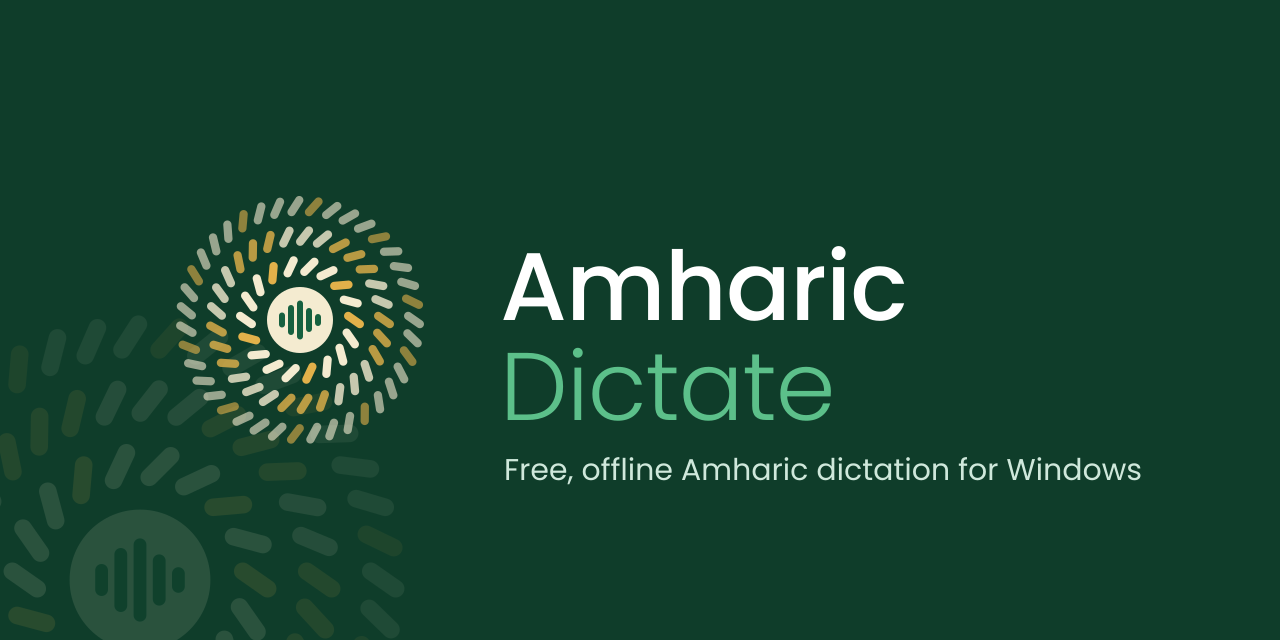
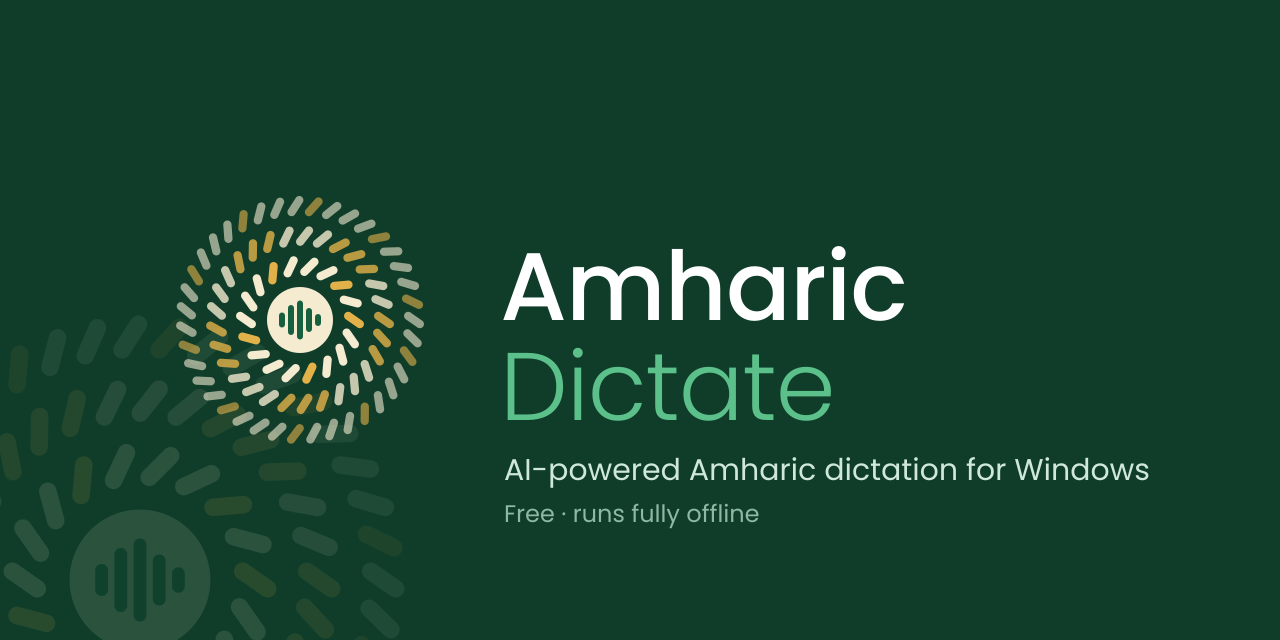
Say clearly that it uses an AI speech model (README, guide, About, start-up window, installer, licence, social preview), and that AI can mishear
Claude-Session: https://claude.ai/code/session_01MHqvrqbzGexgFLvyXxESMw

Changed region(s): [[0.375, 0.7188, 0.9062, 0.75], [0.375, 0.7812, 0.5938, 0.8125]]

diff --git a/assets/guide.html b/assets/guide.html
@@ -16,12 +16,13 @@ nav ul{margin:.3em 0;padding-left:1.2em} a{color:#0b62c4} hr{border:0;border-top
 <div style="display:flex;align-items:center;gap:16px"><svg xmlns="http://www.w3.org/2000/svg" width="72" height="72" viewBox="0 0 200 200"><defs><linearGradient id="g" x1="0" y1="0" x2="0" y2="1"><stop offset="0" stop-color="#2FA36A"/><stop offset="1" stop-color="#16603F"/></linearGradient></defs><rect width="72" height="72" rx="46" fill="url(#g)"/><rect x="133.25" y="92.50" width="5.5" height="15" rx="2.75" fill="#E2B14A" transform="rotate(125.0 136.00 100.00)" opacity="1.00"/><rect x="131.08" y="104.81" width="5.5" height="15" rx="2.75" fill="#F4EBD0" transform="rotate(145.0 133.83 112.31)" opacity="1.00"/><rect x="124.83" y="115.64" width="5.5" height="15" rx="2.75" fill="#F4EBD0" transform="rotate(165.0 127.58 123.14)" opacity="1.00"/><rect x="115.25" y="123.68" width="5.5" height="15" rx="2.75" fill="#F4EBD0" transform="rotate(185.0 118.00 131.18)" opacity="1.00"/><rect x="103.50" y="127.95" width="5.5" height="15" rx="2.75" fill="#E2B14A" transform="rotate(205.0 106.25 135.45)" opacity="1.00"/><rect x="91.00" y="127.95" width="5.5" height="15" rx="2.75" fill="#F4EBD0" transform="rotate(225.0 93.75 135.45)" opacity="1.00"/><rect x="79.25" y="123.68" width="5.5" height="15" rx="2.75" fill="#F4EBD0" transform="rotate(245.0 82.00 131.18)" opacity="1.00"/><rect x="69.67" y="115.64" width="5.5" height="15" rx="2.75" fill="#F4EBD0" transform="rotate(265.0 72.42 123.14)" opacity="1.00"/><rect x="63.42" y="104.81" width="5.5" height="15" rx="2.75" fill="#E2B14A" transform="rotate(285.0 66.17 112.31)" opacity="1.00"/><rect x="61.25" y="92.50" width="5.5" height="15" rx="2.75" fill="#F4EBD0" transform="rotate(305.0 64.00 100.00)" opacity="1.00"/><rect x="63.42" y="80.19" width="5.5" height="15" rx="2.75" fill="#F4EBD0" transform="rotate(325.0 66.17 87.69)" opacity="1.00"/><rect x="69.67" y="69.36" width="5.5" height="15" rx="2.75" fill="#F4EBD0" transform="rotate(345.0 72.42 76.86)" opacity="1.00"/><rect x="79.25" y="61.32" width="5.5" height="15" rx="2.75" fill="#E2B14A" transform="rotate(365.0 82.00 68.82)" opacity="1.00"/><rect x="91.00" y="57.05" width="5.5" height="15" rx="2.75" fill="#F4EBD0" transform="rotate(385.0 93.75 64.55)" opacity="1.00"/><rect x="103.50" y="57.05" width="5.5" height="15" rx="2.75" fill="#F4EBD0" transform="rotate(405.0 106.25 64.55)" opacity="1.00"/><rect x="115.25" y="61.32" width="5.5" height="15" rx="2.75" fill="#F4EBD0" transform="rotate(425.0 118.00 68.82)" opacity="1.00"/><rect x="124.83" y="69.36" width="5.5" height="15" rx="2.75" fill="#E2B14A" transform="rotate(445.0 127.58 76.86)" opacity="1.00"/><rect x="131.08" y="80.19" width="5.5" height="15" rx="2.75" fill="#F4EBD0" transform="rotate(465.0 133.83 87.69)" opacity="1.00"/><rect x="153.25" y="92.50" width="5.5" height="15" rx="2.75" fill="#E2B14A" transform="rotate(125.0 156.00 100.00)" opacity="0.80"/><rect x="151.94" y="104.54" width="5.5" height="15" rx="2.75" fill="#E2B14A" transform="rotate(137.4 154.69 112.04)" opacity="0.80"/><rect x="148.07" y="116.01" width="5.5" height="15" rx="2.75" fill="#E2B14A" transform="rotate(149.8 150.82 123.51)" opacity="0.80"/><rect x="141.83" y="126.39" width="5.5" height="15" rx="2.75" fill="#F4EBD0" transform="rotate(162.2 144.58 133.89)" opacity="0.80"/><rect x="133.50" y="135.18" width="5.5" height="15" rx="2.75" fill="#F4EBD0" transform="rotate(174.7 136.25 142.68)" opacity="0.80"/><rect x="123.48" y="141.98" width="5.5" height="15" rx="2.75" fill="#F4EBD0" transform="rotate(187.1 126.23 149.48)" opacity="0.80"/><rect x="112.23" y="146.46" width="5.5" height="15" rx="2.75" fill="#E2B14A" transform="rotate(199.5 114.98 153.96)" opacity="0.80"/><rect x="100.28" y="148.42" width="5.5" height="15" rx="2.75" fill="#E2B14A" transform="rotate(211.9 103.03 155.92)" opacity="0.80"/><rect x="88.19" y="147.76" width="5.5" height="15" rx="2.75" fill="#E2B14A" transform="rotate(224.3 90.94 155.26)" opacity="0.80"/><rect x="76.52" y="144.52" width="5.5" height="15" rx="2.75" fill="#F4EBD0" transform="rotate(236.7 79.27 152.02)" opacity="0.80"/><rect x="65.82" y="138.85" width="5.5" height="15" rx="2.75" fill="#F4EBD0" transform="rotate(249.1 68.57 146.35)" opacity="0.80"/><rect x="56.59" y="131.01" width="5.5" height="15" rx="2.75" fill="#F4EBD0" transform="rotate(261.6 59.34 138.51)" opacity="0.80"/><rect x="49.27" y="121.37" width="5.5" height="15" rx="2.75" fill="#E2B14A" transform="rotate(274.0 52.02 128.87)" opacity="0.80"/><rect x="44.18" y="110.38" width="5.5" height="15" rx="2.75" fill="#E2B14A" transform="rotate(286.4 46.93 117.88)" opacity="0.80"/><rect x="41.58" y="98.55" width="5.5" height="15" rx="2.75" fill="#E2B14A" transform="rotate(298.8 44.33 106.05)" opacity="0.80"/><rect x="41.58" y="86.45" width="5.5" height="15" rx="2.75" fill="#F4EBD0" transform="rotate(311.2 44.33 93.95)" opacity="0.80"/><rect x="44.18" y="74.62" width="5.5" height="15" rx="2.75" fill="#F4EBD0" transform="rotate(323.6 46.93 82.12)" opacity="0.80"/><rect x="49.27" y="63.63" width="5.5" height="15" rx="2.75" fill="#F4EBD0" transform="rotate(336.0 52.02 71.13)" opacity="0.80"/><rect x="56.59" y="53.99" width="5.5" height="15" rx="2.75" fill="#E2B14A" transform="rotate(348.4 59.34 61.49)" opacity="0.80"/><rect x="65.82" y="46.15" width="5.5" height="15" rx="2.75" fill="#E2B14A" transform="rotate(360.9 68.57 53.65)" opacity="0.80"/><rect x="76.52" y="40.48" width="5.5" height="15" rx="2.75" fill="#E2B14A" transform="rotate(373.3 79.27 47.98)" opacity="0.80"/><rect x="88.19" y="37.24" width="5.5" height="15" rx="2.75" fill="#F4EBD0" transform="rotate(385.7 90.94 44.74)" opacity="0.80"/><rect x="100.28" y="36.58" width="5.5" height="15" rx="2.75" fill="#F4EBD0" transform="rotate(398.1 103.03 44.08)" opacity="0.80"/><rect x="112.23" y="38.54" width="5.5" height="15" rx="2.75" fill="#F4EBD0" transform="rotate(410.5 114.98 46.04)" opacity="0.80"/><rect x="123.48" y="43.02" width="5.5" height="15" rx="2.75" fill="#E2B14A" transform="rotate(422.9 126.23 50.52)" opacity="0.80"/><rect x="133.50" y="49.82" width="5.5" height="15" rx="2.75" fill="#E2B14A" transform="rotate(435.3 136.25 57.32)" opacity="0.80"/><rect x="141.83" y="58.61" width="5.5" height="15" rx="2.75" fill="#E2B14A" transform="rotate(447.8 144.58 66.11)" opacity="0.80"/><rect x="148.07" y="68.99" width="5.5" height="15" rx="2.75" fill="#F4EBD0" transform="rotate(460.2 150.82 76.49)" opacity="0.80"/><rect x="151.94" y="80.46" width="5.5" height="15" rx="2.75" fill="#F4EBD0" transform="rotate(472.6 154.69 87.96)" opacity="0.80"/><rect x="173.25" y="92.50" width="5.5" height="15" rx="2.75" fill="#F4EBD0" transform="rotate(125.0 176.00 100.00)" opacity="0.60"/><rect x="172.27" y="104.69" width="5.5" height="15" rx="2.75" fill="#F4EBD0" transform="rotate(134.2 175.02 112.19)" opacity="0.60"/><rect x="169.34" y="116.57" width="5.5" height="15" rx="2.75" fill="#E2B14A" transform="rotate(143.5 172.09 124.07)" opacity="0.60"/><rect x="164.54" y="127.82" width="5.5" height="15" rx="2.75" fill="#F4EBD0" transform="rotate(152.7 167.29 135.32)" opacity="0.60"/><rect x="158.01" y="138.16" width="5.5" height="15" rx="2.75" fill="#F4EBD0" transform="rotate(161.9 160.76 145.66)" opacity="0.60"/><rect x="149.90" y="147.31" width="5.5" height="15" rx="2.75" fill="#F4EBD0" transform="rotate(171.2 152.65 154.81)" opacity="0.60"/><rect x="140.42" y="155.05" width="5.5" height="15" rx="2.75" fill="#E2B14A" transform="rotate(180.4 143.17 162.55)" opacity="0.60"/><rect x="129.83" y="161.16" width="5.5" height="15" rx="2.75" fill="#F4EBD0" transform="rotate(189.6 132.58 168.66)" opacity="0.60"/><rect x="118.39" y="165.50" width="5.5" height="15" rx="2.75" fill="#F4EBD0" transform="rotate(198.8 121.14 173.00)" opacity="0.60"/><rect x="106.41" y="167.95" width="5.5" height="15" rx="2.75" fill="#F4EBD0" transform="rotate(208.1 109.16 175.45)" opacity="0.60"/><rect x="94.19" y="168.44" width="5.5" height="15" rx="2.75" fill="#E2B14A" transform="rotate(217.3 96.94 175.94)" opacity="0.60"/><rect x="82.05" y="166.96" width="5.5" height="15" rx="2.75" fill="#F4EBD0" transform="rotate(226.5 84.80 174.46)" opacity="0.60"/><rect x="70.30" y="163.56" width="5.5" height="15" rx="2.75" fill="#F4EBD0" transform="rotate(235.8 73.05 171.06)" opacity="0.60"/><rect x="59.25" y="158.32" width="5.5" height="15" rx="2.75" fill="#F4EBD0" transform="rotate(245.0 62.00 165.82)" opacity="0.60"/><rect x="49.18" y="151.37" width="5.5" height="15" rx="2.75" fill="#E2B14A" transform="rotate(254.2 51.93 158.87)" opacity="0.60"/><rect x="40.36" y="142.90" width="5.5" height="15" rx="2.75" fill="#F4EBD0" transform="rotate(263.5 43.11 150.40)" opacity="0.60"/><rect x="33.02" y="133.12" width="5.5" height="15" rx="2.75" fill="#F4EBD0" transform="rotate(272.7 35.77 140.62)" opacity="0.60"/><rect x="27.33" y="122.29" width="5.5" height="15" rx="2.75" fill="#F4EBD0" transform="rotate(281.9 30.08 129.79)" opacity="0.60"/><rect x="23.46" y="110.69" width="5.5" height="15" rx="2.75" fill="#E2B14A" transform="rotate(291.2 26.21 118.19)" opacity="0.60"/><rect x="21.50" y="98.62" width="5.5" height="15" rx="2.75" fill="#F4EBD0" transform="rotate(300.4 24.25 106.12)" opacity="0.60"/><rect x="21.50" y="86.38" width="5.5" height="15" rx="2.75" fill="#F4EBD0" transform="rotate(309.6 24.25 93.88)" opacity="0.60"/><rect x="23.46" y="74.31" width="5.5" height="15" rx="2.75" fill="#F4EBD0" transform="rotate(318.8 26.21 81.81)" opacity="0.60"/><rect x="27.33" y="62.71" width="5.5" height="15" rx="2.75" fill="#E2B14A" transform="rotate(328.1 30.08 70.21)" opacity="0.60"/><rect x="33.02" y="51.88" width="5.5" height="15" rx="2.75" fill="#F4EBD0" transform="rotate(337.3 35.77 59.38)" opacity="0.60"/><rect x="40.36" y="42.10" width="5.5" height="15" rx="2.75" fill="#F4EBD0" transform="rotate(346.5 43.11 49.60)" opacity="0.60"/><rect x="49.18" y="33.63" width="5.5" height="15" rx="2.75" fill="#F4EBD0" transform="rotate(355.8 51.93 41.13)" opacity="0.60"/><rect x="59.25" y="26.68" width="5.5" height="15" rx="2.75" fill="#E2B14A" transform="rotate(365.0 62.00 34.18)" opacity="0.60"/><rect x="70.30" y="21.44" width="5.5" height="15" rx="2.75" fill="#F4EBD0" transform="rotate(374.2 73.05 28.94)" opacity="0.60"/><rect x="82.05" y="18.04" width="5.5" height="15" rx="2.75" fill="#F4EBD0" transform="rotate(383.5 84.80 25.54)" opacity="0.60"/><rect x="94.19" y="16.56" width="5.5" height="15" rx="2.75" fill="#F4EBD0" transform="rotate(392.7 96.94 24.06)" opacity="0.60"/><rect x="106.41" y="17.05" width="5.5" height="15" rx="2.75" fill="#E2B14A" transform="rotate(401.9 109.16 24.55)" opacity="0.60"/><rect x="118.39" y="19.50" width="5.5" height="15" rx="2.75" fill="#F4EBD0" transform="rotate(411.2 121.14 27.00)" opacity="0.60"/><rect x="129.83" y="23.84" width="5.5" height="15" rx="2.75" fill="#F4EBD0" transform="rotate(420.4 132.58 31.34)" opacity="0.60"/><rect x="140.42" y="29.95" width="5.5" height="15" rx="2.75" fill="#F4EBD0" transform="rotate(429.6 143.17 37.45)" opacity="0.60"/><rect x="149.90" y="37.69" width="5.5" height="15" rx="2.75" fill="#E2B14A" transform="rotate(438.8 152.65 45.19)" opacity="0.60"/><rect x="158.01" y="46.84" width="5.5" height="15" rx="2.75" fill="#F4EBD0" transform="rotate(448.1 160.76 54.34)" opacity="0.60"/><rect x="164.54" y="57.18" width="5.5" height="15" rx="2.75" fill="#F4EBD0" transform="rotate(457.3 167.29 64.68)" opacity="0.60"/><rect x="169.34" y="68.43" width="5.5" height="15" rx="2.75" fill="#F4EBD0" transform="rotate(466.5 172.09 75.93)" opacity="0.60"/><rect x="172.27" y="80.31" width="5.5" height="15" rx="2.75" fill="#E2B14A" transform="rotate(475.8 175.02 87.81)" opacity="0.60"/><circle cx="100" cy="100" r="22" fill="#F4EBD0"/><rect x="86.00" y="95.00" width="4.00" height="10.00" rx="2.00" fill="#16603F"/><rect x="92.00" y="90.00" width="4.00" height="20.00" rx="2.00" fill="#16603F"/><rect x="98.00" y="87.00" width="4.00" height="26.00" rx="2.00" fill="#16603F"/><rect x="104.00" y="92.00" width="4.00" height="16.00" rx="2.00" fill="#16603F"/><rect x="110.00" y="96.00" width="4.00" height="8.00" rx="2.00" fill="#16603F"/></svg><div><h1 id="amharic-dictate-how-to-use">Amharic Dictate — how to use</h1></div></div>
 <nav><b>Contents</b><ul><li><a href="#dictate">Dictate</a></li><li><a href="#voice-commands">Voice commands</a></li><li><a href="#fix-mistakes">Fix mistakes</a></li><li><a href="#train-it-to-your-voice-add-your-own-words-learn-from-corrections">Train it to your voice, add your own words, learn from corrections</a></li><li><a href="#settings">Settings</a></li><li><a href="#tips-and-troubleshooting">Tips and troubleshooting</a></li><li><a href="#privacy">Privacy</a></li></ul></nav>
 
-<p><strong>Free, offline Amharic dictation for Windows.</strong> Speak Amharic and your words appear as text in
-Word, Outlook, Teams, your browser or any other program.</p>
+<p><strong>Free, offline Amharic dictation for Windows, powered by AI.</strong> Speak Amharic and your words appear
+as text in Word, Outlook, Teams, your browser or any other program.</p>
 <p>Free and open source.</p>
 <ul>
-<li><strong>Works offline:</strong> everything runs on your computer. Nothing you say is sent anywhere.</li>
-<li><strong>Built-in speech model:</strong> <em>Amharic Speech-to-Text EFA v1</em>, included in the installer.</li>
+<li><strong>AI speech recognition:</strong> the built-in AI model <em>Amharic Speech-to-Text EFA v1</em> turns your
+  speech into Amharic text. It's included in the installer.</li>
+<li><strong>Works offline:</strong> the AI runs on your computer. Nothing you say is sent anywhere.</li>
 <li><strong>Easy corrections:</strong> click any word to fix, remove or replace it.</li>
 <li><strong>Learns your voice:</strong> optional voice profile for better accuracy.</li>
 </ul>
@@ -284,7 +285,10 @@ want stored on the computer.</p>
 </table>
 <hr />
 <h2 id="privacy">Privacy</h2>
-<p>Everything you dictate is processed on your computer. Nothing is uploaded. Dictation history is
+<p>Everything you dictate is processed on your computer by the built-in AI model. Nothing is
+uploaded, and no online AI service is used.</p>
+<p>Like any AI, the speech model can mishear words, especially names, rare words and noisy audio.
+Check the text before you send or print it. Voice training and <strong>My words</strong> reduce mistakes. Dictation history is
 <strong>off</strong> by default. Voice-profile recordings and corrections stay in your Windows user folder
 (<code>%APPDATA%\AmharicDictate</code>) and can be deleted in <strong>Voice profiles</strong>.</p>
 <hr />

diff --git a/app.py b/app.py
@@ -339,7 +339,7 @@ class App:
                            for _ in range(22)]
         self._wave_t, self._wave_done = 0.0, False
         self._animate_wave()
-        tk.Label(box, text=f"Version {APP_VERSION}  ·  works offline", font=("Segoe UI", 8),
+        tk.Label(box, text=f"Version {APP_VERSION}  ·  AI speech recognition, fully offline", font=("Segoe UI", 8),
                  fg=T.DIM, bg=T.BG).pack(side="bottom", pady=10)
         w.update_idletasks()
 
@@ -478,7 +478,7 @@ class App:
     def _load_model(self):
         from engine import DictationEngine, Transcriber, ensure_model
         try:
-            self.tray.title = f"{APP_NAME} — loading the speech model…"     # no dictation box while loading
+            self.tray.title = f"{APP_NAME} — loading the AI speech model…"     # no dictation box while loading
             t0 = time.time()
             path = ensure_model(self.cfg["model"], lambda s: self.ui_q.put(("loading", s)))
             os.environ["HF_HUB_OFFLINE"] = "1"   # everything is local from here on
@@ -491,8 +491,8 @@ class App:
             if profile:
                 self.ui_q.put(("profile", f"Voice profile: {profile}" +
                                ("" if adapter else "  (no voice training yet)")))
-            self.ui_q.put(("loading", f"Loading the speech model and {profile}'s voice profile…" if adapter
-                           else "Loading the Amharic speech model…"))
+            self.ui_q.put(("loading", f"Loading the AI speech model and {profile}'s voice profile…" if adapter
+                           else "Loading the Amharic AI speech model…"))
             self._loaded_adapter = (str(adapter), os.path.getmtime(adapter)) if adapter else None
             transcriber = Transcriber(path, self.cfg["device"], self.cfg["quantize_cpu"],
                                       use_lm=self.cfg.get("lm_decoding", True),
@@ -675,16 +675,16 @@ class App:
             model_credit = ("Speech model: Ethio-ASR (Amharic) by badrex, CC BY-NC 4.0 — "
                             "free, non-commercial use only.")
         else:
-            model_credit = (f"Speech model: {model}, CC BY-SA 4.0 — based on facebook/w2v-bert-2.0 (MIT), "
+            model_credit = (f"AI speech model: {model}, CC BY-SA 4.0 — based on facebook/w2v-bert-2.0 (MIT), "
                             "trained on WAXAL (Google & partners) and FLEURS (Google) Amharic speech data.")
         messagebox.showinfo(
             f"About {APP_NAME}",
             f"{APP_NAME} {APP_VERSION}\n"
-            "Offline Amharic dictation for Windows.\n\n"
+            "Offline Amharic dictation for Windows, powered by AI speech recognition.\n\n"
             f"{model_credit}\n\n"
             "Amharic dictionary: Leipzig Corpora Collection (CC BY 4.0).\n"
             "Reading sentences: Leipzig Corpora Collection, Amharic Wikipedia (CC BY 4.0).\n\n"
-            "Everything you dictate stays on this computer.\n\n"
+            "The AI runs on this computer: everything you dictate stays here.\n\n"
             "Created by Endrias F. Abitte",
             parent=self.root)
 

diff --git a/README.md b/README.md
@@ -7,13 +7,14 @@
 
 # Amharic Dictate
 
-**Free, offline Amharic dictation for Windows.** Speak Amharic and your words appear as text in
-Word, Outlook, Teams, your browser or any other program.
+**Free, offline Amharic dictation for Windows, powered by AI.** Speak Amharic and your words appear
+as text in Word, Outlook, Teams, your browser or any other program.
 
 Free and open source.
 
-- **Works offline:** everything runs on your computer. Nothing you say is sent anywhere.
-- **Built-in speech model:** *Amharic Speech-to-Text EFA v1*, included in the installer.
+- **AI speech recognition:** the built-in AI model *Amharic Speech-to-Text EFA v1* turns your
+  speech into Amharic text. It's included in the installer.
+- **Works offline:** the AI runs on your computer. Nothing you say is sent anywhere.
 - **Easy corrections:** click any word to fix, remove or replace it.
 - **Learns your voice:** optional voice profile for better accuracy.
 
@@ -224,7 +225,11 @@ Tray icon → **Settings**:
 
 ## Privacy
 
-Everything you dictate is processed on your computer. Nothing is uploaded. Dictation history is
+Everything you dictate is processed on your computer by the built-in AI model. Nothing is
+uploaded, and no online AI service is used.
+
+Like any AI, the speech model can mishear words, especially names, rare words and noisy audio.
+Check the text before you send or print it. Voice training and **My words** reduce mistakes. Dictation history is
 **off** by default. Voice-profile recordings and corrections stay in your Windows user folder
 (`%APPDATA%\AmharicDictate`) and can be deleted in **Voice profiles**.
 
